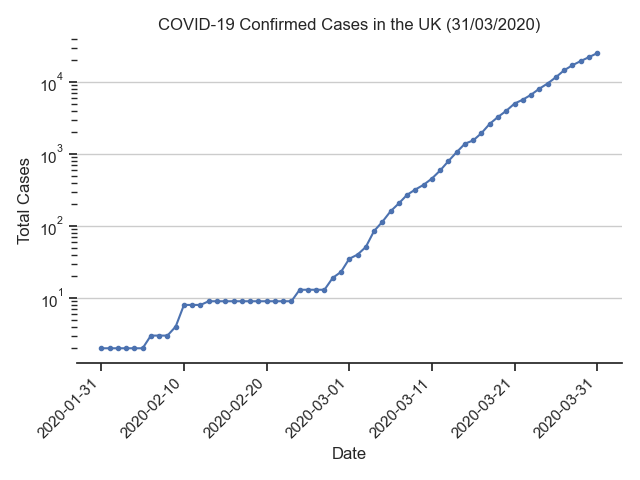
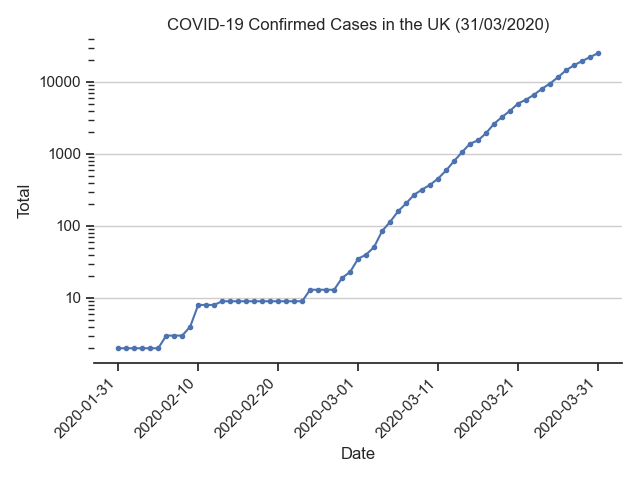
change y-axis on log graphs to be non-scientific

diff --git a/bin/plots.py b/bin/plots.py
@@ -1,5 +1,6 @@
 import matplotlib.pyplot as plt
 import matplotlib.dates as mdates
+from matplotlib.ticker import ScalarFormatter
 import pandas as pd
 import seaborn as sns
 from pathlib import Path
@@ -29,6 +30,13 @@ def _plot_cases(
     plt.title(title)
     plt.xticks(rotation=45, ha='right')
     plt.grid(which='major', axis='y')
+
+    # Change scientific yaxis to normal numbers
+    formatter = ScalarFormatter()
+    formatter.set_scientific(False)
+    ax = plt.gca()
+    ax.yaxis.set_major_formatter(formatter)
+
     plt.tight_layout()
     sns.despine(left=True)
 
